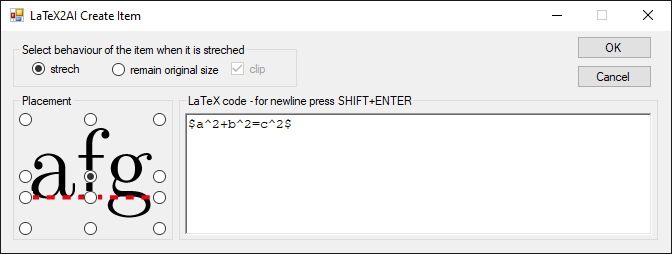
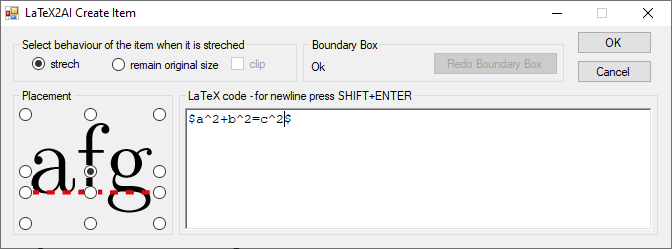
Add button to item form, allowing to change the boundary box

diff --git a/forms/src/forms/l2a_item.cs b/forms/src/forms/l2a_item.cs
@@ -40,22 +40,43 @@ namespace L2A.FORMS
         {
             InitializeComponent();
 
+            input_parameter_list_ = parameter_list;
+            L2A.UTIL.ParameterList property_list = input_parameter_list_.sub_lists_["property_list"];
+
             // Set the position item.
-            SetPosition(parameter_list.options_["text_align_horizontal"], parameter_list.options_["text_align_vertical"]);
+            SetPosition(property_list.options_["text_align_horizontal"], property_list.options_["text_align_vertical"]);
 
             // Set the placement options.
-            SetPlacementOption(parameter_list.options_["placed_option"]);
+            SetPlacementOption(property_list.options_["placed_option"]);
 
             // Set the latex code.
-            textbox.Text = parameter_list.sub_lists_["latex"].main_option_;
+            textbox.Text = property_list.sub_lists_["latex"].main_option_;
 
             // Set the position of the cursor in the text box.
-            int cursor_position = Int32.Parse(parameter_list.sub_lists_["latex"].options_["cursor_position"]);
+            int cursor_position = Int32.Parse(property_list.sub_lists_["latex"].options_["cursor_position"]);
             textbox.SelectionStart = cursor_position;
             textbox.SelectionLength = 0;
 
             // Set the textbox to be active.
             ActiveControl = textbox;
+
+            // Set the redo boundary box relatex stuff in the form.
+            string boundary_box_state = input_parameter_list_.options_["boundary_box_state"];
+            if (boundary_box_state == "none")
+                group_boundary_box.Visible = false;
+            else
+            {
+                group_boundary_box.Visible = true;
+                if (boundary_box_state == "ok")
+                {
+                    boundary_box_status.Text = "Ok";
+                    rebo_boundary_box.Enabled = false;
+                }
+                else if (boundary_box_state == "streched")
+                    boundary_box_status.Text = "Streched";
+                else if (boundary_box_state == "diamond")
+                    boundary_box_status.Text = "Bend";
+            }
         }
 
         private void SetPosition(string text_align_horizontal, string text_align_vertical)
@@ -136,6 +157,27 @@ namespace L2A.FORMS
 
         private void CancelClick(object sender, EventArgs e)
         {
+            this.Close();
+        }
+
+        private void RedoBoundaryClick(object sender, EventArgs e)
+        {
+            // Check if values were changed.
+            StoreValues();
+            L2A.UTIL.ParameterList property_list = input_parameter_list_.sub_lists_["property_list"];
+            if (
+                return_parameter_list_.options_["text_align_horizontal"] != property_list.options_["text_align_horizontal"] ||
+                return_parameter_list_.options_["text_align_vertical"] != property_list.options_["text_align_vertical"] ||
+                return_parameter_list_.options_["placed_option"] != property_list.options_["placed_option"] ||
+                return_parameter_list_.sub_lists_["latex"].main_option_ != property_list.sub_lists_["latex"].main_option_
+                )
+            {
+                DialogResult dialog_result = MessageBox.Show("Some values of the item changed. If you continue with Redo Boundary Box the changes will be lost. Do you want to continue?", "LaTeX2AI", MessageBoxButtons.OKCancel);
+                // The user wants to continue editing the form.
+                if (dialog_result == DialogResult.Cancel) return;
+            }
+
+            this.form_result_ = "redo_boundary_box";
             this.Close();
         }
 
@@ -262,5 +304,8 @@ namespace L2A.FORMS
             return_parameter_list_.sub_lists_["latex"].main_option_ = textbox.Text;
             return_parameter_list_.sub_lists_["latex"].options_["cursor_position"] = textbox.SelectionStart.ToString();
         }
+
+        //! Parameter list with the given options from the main application.
+        protected L2A.UTIL.ParameterList input_parameter_list_;
     }
 }

diff --git a/forms/src/forms/l2a_item.Designer.cs b/forms/src/forms/l2a_item.Designer.cs
@@ -74,10 +74,14 @@ namespace L2A.FORMS
             this.original_size = new System.Windows.Forms.RadioButton();
             this.strech = new System.Windows.Forms.RadioButton();
             this.group_type = new System.Windows.Forms.GroupBox();
+            this.rebo_boundary_box = new System.Windows.Forms.Button();
+            this.group_boundary_box = new System.Windows.Forms.GroupBox();
+            this.boundary_box_status = new System.Windows.Forms.Label();
             this.group_placement.SuspendLayout();
             ((System.ComponentModel.ISupportInitialize)(this.pictureBox1)).BeginInit();
             this.group_text.SuspendLayout();
             this.group_type.SuspendLayout();
+            this.group_boundary_box.SuspendLayout();
             this.SuspendLayout();
             // 
             // button_cancel
@@ -317,11 +321,43 @@ namespace L2A.FORMS
             this.group_type.TabStop = false;
             this.group_type.Text = "Select behaviour of the item when it is streched";
             // 
+            // rebo_boundary_box
+            // 
+            this.rebo_boundary_box.Location = new System.Drawing.Point(130, 14);
+            this.rebo_boundary_box.Name = "rebo_boundary_box";
+            this.rebo_boundary_box.Size = new System.Drawing.Size(125, 23);
+            this.rebo_boundary_box.TabIndex = 33;
+            this.rebo_boundary_box.Text = "Redo Boundary Box";
+            this.rebo_boundary_box.UseVisualStyleBackColor = true;
+            this.rebo_boundary_box.Click += new System.EventHandler(this.RedoBoundaryClick);
+            // 
+            // group_boundary_box
+            // 
+            this.group_boundary_box.Controls.Add(this.boundary_box_status);
+            this.group_boundary_box.Controls.Add(this.rebo_boundary_box);
+            this.group_boundary_box.Location = new System.Drawing.Point(302, 12);
+            this.group_boundary_box.Name = "group_boundary_box";
+            this.group_boundary_box.Size = new System.Drawing.Size(261, 45);
+            this.group_boundary_box.TabIndex = 33;
+            this.group_boundary_box.TabStop = false;
+            this.group_boundary_box.Text = "Boundary Box";
+            this.group_boundary_box.Visible = false;
+            // 
+            // boundary_box_status
+            // 
+            this.boundary_box_status.AutoSize = true;
+            this.boundary_box_status.Location = new System.Drawing.Point(6, 22);
+            this.boundary_box_status.Name = "boundary_box_status";
+            this.boundary_box_status.Size = new System.Drawing.Size(65, 13);
+            this.boundary_box_status.TabIndex = 34;
+            this.boundary_box_status.Text = "UNKNOWN";
+            // 
             // Item
             // 
             this.AutoScaleDimensions = new System.Drawing.SizeF(6F, 13F);
             this.AutoScaleMode = System.Windows.Forms.AutoScaleMode.Font;
             this.ClientSize = new System.Drawing.Size(670, 222);
+            this.Controls.Add(this.group_boundary_box);
             this.Controls.Add(this.button_cancel);
             this.Controls.Add(this.button_ok);
             this.Controls.Add(this.group_placement);
@@ -339,6 +375,8 @@ namespace L2A.FORMS
             this.group_text.ResumeLayout(false);
             this.group_type.ResumeLayout(false);
             this.group_type.PerformLayout();
+            this.group_boundary_box.ResumeLayout(false);
+            this.group_boundary_box.PerformLayout();
             this.ResumeLayout(false);
 
         }
@@ -367,5 +405,8 @@ namespace L2A.FORMS
         private System.Windows.Forms.RadioButton original_size;
         private System.Windows.Forms.RadioButton strech;
         private System.Windows.Forms.GroupBox group_type;
+        private System.Windows.Forms.Button rebo_boundary_box;
+        private System.Windows.Forms.GroupBox group_boundary_box;
+        private System.Windows.Forms.Label boundary_box_status;
     }
 }

diff --git a/l2a/src/l2a_item/l2a_item.cpp b/l2a/src/l2a_item/l2a_item.cpp
@@ -58,7 +58,11 @@ L2A::Item::Item(const AIRealPoint& position)
     while (true)
     {
         // Get user input for the item. If the form is canceled the creation of this object is also canceled.
-        if (!property_.GetUserInput()) return;
+        ItemFormReturnValues return_value = OpenUserForm(property_);
+        if (return_value == ItemFormReturnValues::cancel)
+            return;
+        else if (return_value == ItemFormReturnValues::redo_boundary)
+            l2a_error("Unexpected return value");
 
         // Create the pdf file.
         L2A::LATEX::LatexCreationResult result =
@@ -146,7 +150,14 @@ void L2A::Item::Change()
     while (true)
     {
         // Get input from user.
-        if (!new_input.GetUserInput()) return;
+        ItemFormReturnValues return_value = OpenUserForm(new_input);
+        if (return_value == ItemFormReturnValues::redo_boundary)
+        {
+            RedoBoundary();
+            return;
+        }
+        else if (return_value == ItemFormReturnValues::cancel)
+            return;
 
         // Compare the current input and the new one.
         diff = property_.Compare(new_input);
@@ -436,6 +447,40 @@ void L2A::Item::Draw(AIAnnotatorMessage* message, const std::map<PlaceAlignment,
         error = sAIAnnotatorDrawer->DrawLine(message->drawer, boundary_positions_view[5], boundary_positions_view[6]);
         l2a_check_ai_error(error);
     }
+}
+
+/**
+ *
+ */
+L2A::ItemFormReturnValues L2A::Item::OpenUserForm(L2A::Property& input_property) const
+{
+    L2A::UTIL::ParameterList form_input_parameter_list;
+    ai::UnicodeString key("boundary_box_state");
+    if (!sAIArt->ValidArt(placed_item_, true))
+        form_input_parameter_list.SetOption(key, ai::UnicodeString("none"));
+    else if (IsDiamond())
+        form_input_parameter_list.SetOption(key, ai::UnicodeString("diamond"));
+    else if (IsStreched())
+        form_input_parameter_list.SetOption(key, ai::UnicodeString("streched"));
+    else
+        form_input_parameter_list.SetOption(key, ai::UnicodeString("ok"));
+    form_input_parameter_list.SetSubList(ai::UnicodeString("property_list"), input_property.ToParameterList());
+
+    std::shared_ptr<L2A::UTIL::ParameterList> form_return_parameter_list;
+    ai::UnicodeString return_string =
+        L2A::Form(ai::UnicodeString("l2a_item"), form_input_parameter_list, form_return_parameter_list).return_string;
+
+    if (return_string == ai::UnicodeString("ok"))
+    {
+        input_property.SetFromParameterList(*form_return_parameter_list);
+        return ItemFormReturnValues::ok;
+    }
+    else if (return_string == ai::UnicodeString("redo_boundary_box"))
+        return ItemFormReturnValues::redo_boundary;
+    else if (return_string == ai::UnicodeString("cancel"))
+        return ItemFormReturnValues::cancel;
+    else
+        l2a_error("Unexpected result. Got return string: \"" + return_string + "\"");
 }
 
 /**

diff --git a/l2a/src/l2a_item/l2a_item.h b/l2a/src/l2a_item/l2a_item.h
@@ -61,6 +61,16 @@ namespace L2A
 namespace L2A
 {
     /**
+     * \brief Enum to manage the return values of the form for the Item.
+     */
+    enum class ItemFormReturnValues
+    {
+        ok,
+        cancel,
+        redo_boundary
+    };
+
+    /**
      * \brief Class that represents one LaTeX2AI item in AI. It has mehtods for creating and replacing the LaTeX
      *        document in AI.
      */
@@ -127,6 +137,11 @@ namespace L2A
          * \brief Draw the boundary of the placed item in the document.
          */
         void Draw(AIAnnotatorMessage* message, const std::map<PlaceAlignment, AIRealPoint>& item_boundaries) const;
+
+        /**
+         * \brief Open a form to edit the values related to this item.
+         */
+        ItemFormReturnValues OpenUserForm(L2A::Property& input_property) const;
 
        private:
         /**

diff --git a/l2a/src/l2a_property/l2a_property.cpp b/l2a/src/l2a_property/l2a_property.cpp
@@ -35,7 +35,6 @@
 #include "utility/utils.h"
 #include "utility/file_system.h"
 #include "l2a_error/l2a_error.h"
-#include "l2a_forms/l2a_forms.h"
 #include "l2a_global/l2a_global.h"
 
 
@@ -164,23 +163,6 @@ L2A::PropertyCompare L2A::Property::Compare(const Property& other_property) cons
 
     // Return the compare value.
     return output;
-}
-
-/**
- *
- */
-bool L2A::Property::GetUserInput()
-{
-    // First get the parameter list from the forms application.
-    std::shared_ptr<L2A::UTIL::ParameterList> new_parameter_list;
-    const bool form_return_value =
-        !L2A::Form(ai::UnicodeString("l2a_item"), ToParameterList(), new_parameter_list).canceled;
-    if (form_return_value)
-    {
-        // Set the new parameters for this item.
-        SetFromParameterList(*new_parameter_list);
-    }
-    return form_return_value;
 }
 
 /**

diff --git a/l2a/src/tests/test_framework.cpp b/l2a/src/tests/test_framework.cpp
@@ -172,6 +172,9 @@ void L2A::TEST::TestFramework(L2A::TEST::UTIL::UnitTest& ut)
         L2A::Property item_property;
         item_property.latex_code_ = ai::UnicodeString("Test item $\\int_a^b \\mathrm dx$");
 
+        L2A::GlobalMutable().testing_form_return_value_.canceled = false;
+        L2A::GlobalMutable().testing_form_return_value_.return_string = ai::UnicodeString("ok");
+
         item_property.text_align_horizontal_ = L2A::TextAlignHorizontal::centre;
         item_property.text_align_vertical_ = L2A::TextAlignVertical::centre;
         L2A::GlobalMutable().testing_form_return_parameter_list_ =

diff --git a/l2a/src/l2a_global/l2a_global.h b/l2a/src/l2a_global/l2a_global.h
@@ -31,6 +31,9 @@
 #define L2A_GLOBAL_H_
 
 
+#include "../l2a_forms/l2a_forms.h"
+
+
 // Forward declarations.
 namespace L2A
 {
@@ -143,6 +146,7 @@ namespace L2A
 
             //! Parameter list that will be returned for forms during testing.
             std::shared_ptr<L2A::UTIL::ParameterList> testing_form_return_parameter_list_;
+            L2A::FormReturnValue testing_form_return_value_;
         };
 
         void CheckGlobal();

diff --git a/l2a/src/l2a_forms/l2a_forms.cpp b/l2a/src/l2a_forms/l2a_forms.cpp
@@ -50,8 +50,7 @@ L2A::FormReturnValue L2A::Form(const ai::UnicodeString& form_type, const L2A::UT
     if (L2A::Global().is_testing_)
     {
         return_parameter_list = L2A::Global().testing_form_return_parameter_list_;
-        return_value.canceled = false;
-        return return_value;
+        return L2A::Global().testing_form_return_value_;
     }
 
     // Get the filepath for the input and output files.

diff --git a/l2a/src/l2a_property/l2a_property.h b/l2a/src/l2a_property/l2a_property.h
@@ -247,12 +247,6 @@ namespace L2A
         }
 
         /**
-         * \brief Get the input parameters from the user via a form.
-         * @return False if the form was canceled.
-         */
-        bool GetUserInput();
-
-        /**
          * \brief Get the latex code for this property
          */
         ai::UnicodeString GetLaTeXCode() const;
